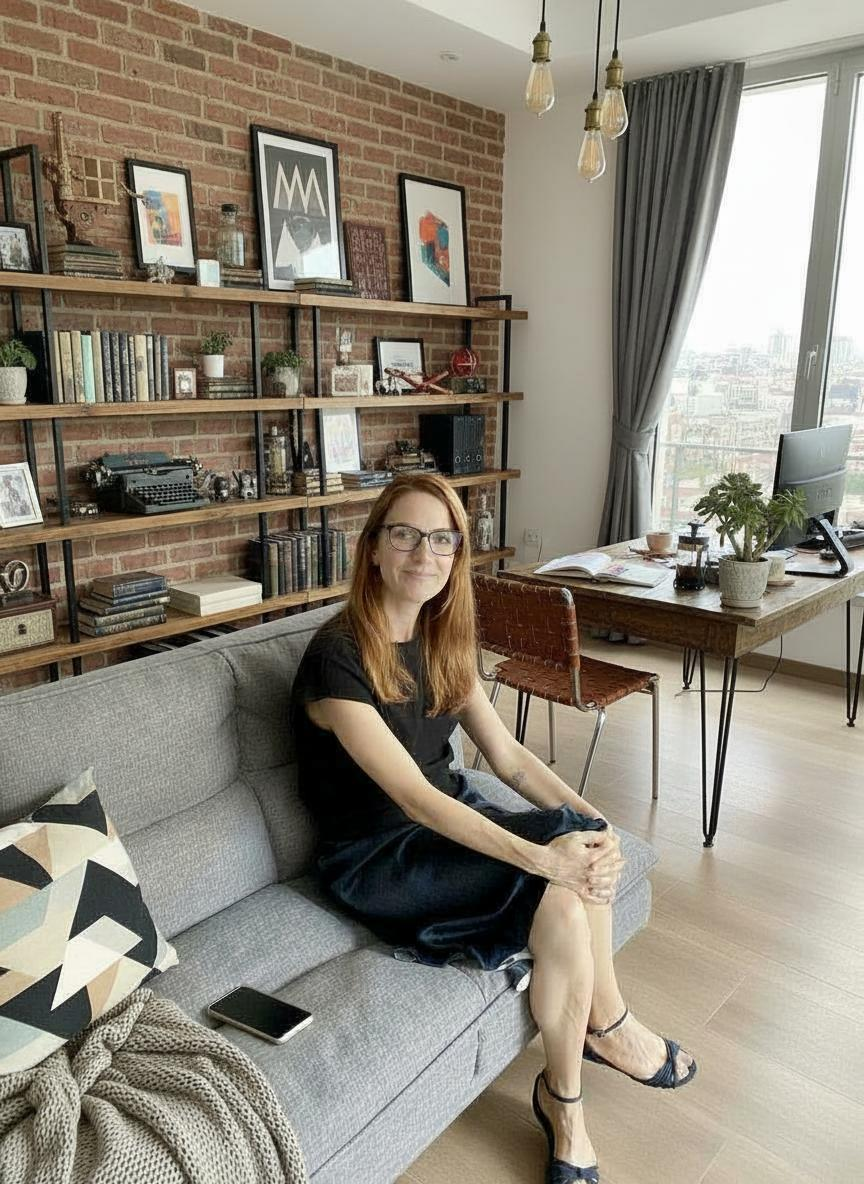
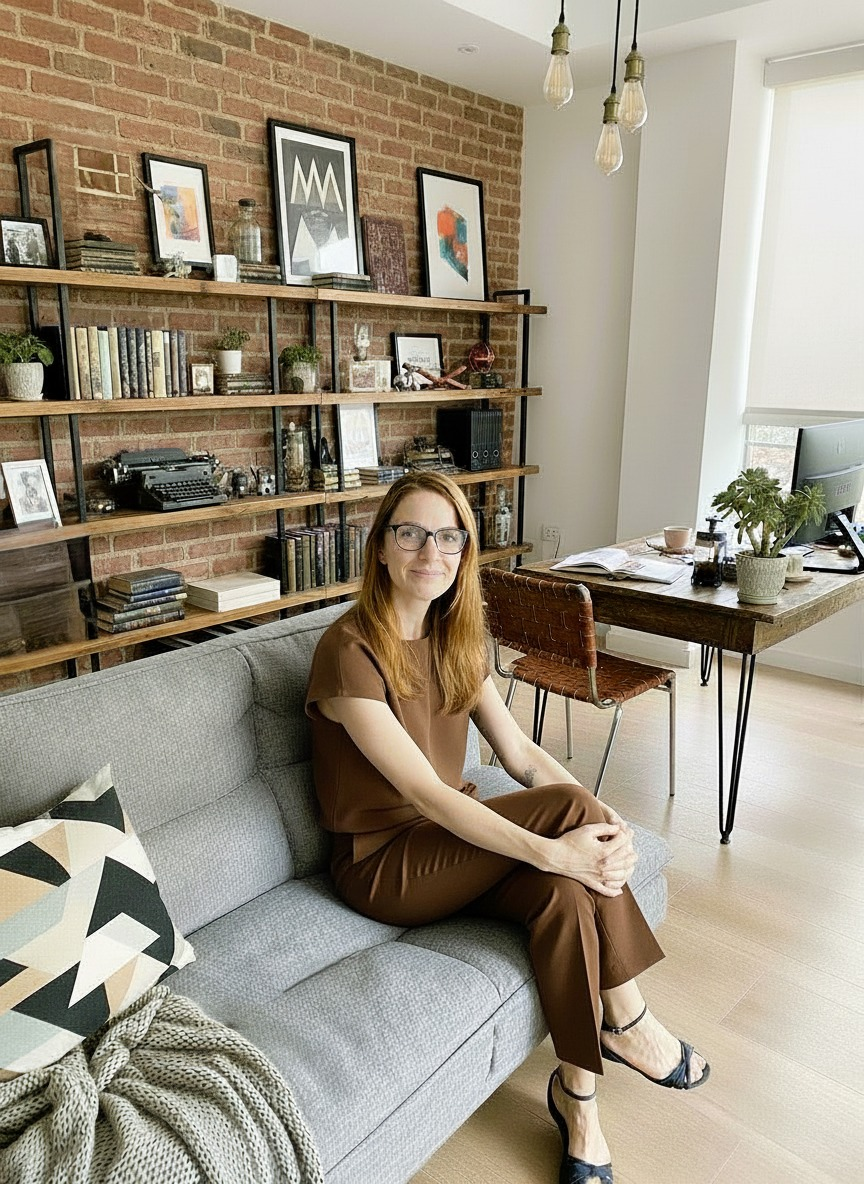
Update metadata & profile pic

diff --git a/layouts/partials/header.html b/layouts/partials/header.html
@@ -15,7 +15,7 @@
         {{- else if .Site.Data.globalheader.image }}
             <img src="{{ .Site.Data.globalheader.image | relURL }}" alt="{{ .Site.Data.globalheader.image_alt }}" />
         {{- end }}
-        {{ with .Site.Data.globalheader.title }}{{ . | markdownify }}{{ else }}{{ .Site.Title }}{{ end }}
+        <!-- {{ with .Site.Data.globalheader.title }}{{ . | markdownify }}{{ else }}{{ .Site.Title }}{{ end }} -->
     </a></h1></div>
 
     <nav id="nav">

diff --git a/layouts/partials/head/custom.html b/layouts/partials/head/custom.html
@@ -21,6 +21,10 @@
 <meta name="robots" content="index, follow" />
 <meta name="revisit-after" content="7 days" />
 <meta name="author" content="{{ .Site.Params.author }}" />
+<meta
+  name="description"
+  content="{{ .Description | default .Site.Params.description }}"
+/>
 
 <!-- Open Graph -->
 <meta property="og:title" content="{{ .Title }}" />

diff --git a/content/about/main.cat.html b/content/about/main.cat.html
@@ -37,7 +37,7 @@ weight: 400
     </p>
   </div>
   <div class="about-me-header-item profile-pic centered">
-    <img src="/images/about/marpa-profile-office-m.png" />
+    <img src="/images/about/marpa-profile-office.jpg" />
   </div>
 </div>
 

diff --git a/content/about/main.en.html b/content/about/main.en.html
@@ -36,7 +36,7 @@ weight: 400
     </p>
   </div>
   <div class="about-me-header-item profile-pic centered">
-    <img src="/images/about/marpa-profile-office-m.png" />
+    <img src="/images/about/marpa-profile-office.jpg" />
   </div>
 </div>
 

diff --git a/content/about/main.fr.html b/content/about/main.fr.html
@@ -38,7 +38,7 @@ weight: 400
     </p>
   </div>
   <div class="about-me-header-item profile-pic centered">
-    <img src="/images/about/marpa-profile-office-m.png" />
+    <img src="/images/about/marpa-profile-office.jpg" />
   </div>
 </div>
 

diff --git a/content/about/main.html b/content/about/main.html
@@ -36,7 +36,7 @@ weight: 400
     </p>
   </div>
   <div class="about-me-header-item profile-pic centered">
-    <img src="/images/about/marpa-profile-office-m.png" />
+    <img src="/images/about/marpa-profile-office.jpg" />
   </div>
 </div>
 
